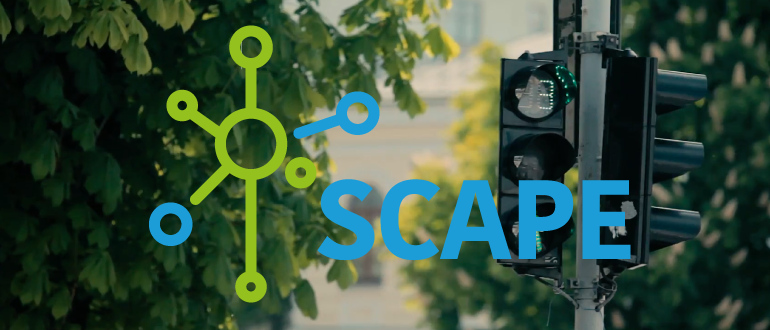
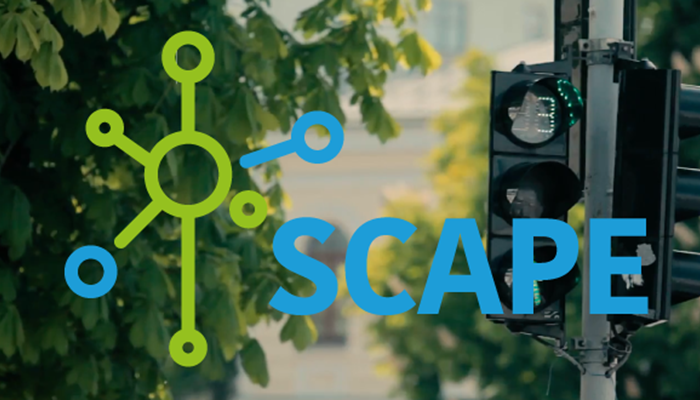
Update EU Projects

diff --git a/_includes/nav.html b/_includes/nav.html
@@ -61,7 +61,7 @@
           </li>
 
           <li class="nav-item {% if page.url == '/contact.html' %}active{% endif %}"><a class="nav-link" href="{{site.baseurl}}/contact.html">Contact</a></li>
-          <li class="nav-item"><a class="nav-link" href="https://github.com/fablabbcn/fablabbcn-web/blob/master/{{page.path}}">Help us fix this page!</a></li>
+          <li class="nav-item"><a class="nav-link" href=git>Help us fix this page!</a></li>
         </ul><!-- nav navbar-nav navbar-right -->
       </div><!-- navbar-collapse collapse -->
 

diff --git a/_posts/projects/0000-03-01-siscode.md b/_posts/projects/0000-03-01-siscode.md
@@ -1,0 +1,46 @@
+---
+layout: project_post
+type: project
+subtype: eufeatured
+projectimg: eu_projects/siscode-new.png
+squareimg: eu_projects/siscode-thumb.png
+url: 
+niceurl: 
+title: SISCODE
+meta: Different policies and programmes have been developed across Europe, over the last decade, to increase the permeability between science, innovation and society to render the former two better oriented towards the needs, demands and expectations of the latter. The overarching aim of SISCODE is to better understand co-creation as a bottom-up and design-driven phenomenon that is flourishing in Europe (in fab labs, living labs, social innovations, smart cities, communities and regions), to analyse favourable conditions that support its scalability and replication and to use this knowledge to cross-fertilise RRI practices and policies. 
+ribbon: Eu Research
+date: 0000-02-09
+---
+
+<img src="{{site.baseurl}}{{ site.url }}/img/projects/eu_projects/siscode1.png">
+
+This aim is articulated along three main operational objectives:
+
+1. To create and run a European-wide study of existing local, regional, national and European co-creation ecosystems and to describe effective dynamics and outcomes for the implementable integration of society in science and innovation. The study will analyse and compare the following: the different cultural, organisational, institutional and regulatory conditions under which co-creation flourishes; the diversities among actors and stakeholders involved (gender, culture, education and backgrounds) that favour co-creation; the typologies of challenges and the citizens they affect (including vulnerable groups, women, children, migrants etc.); and the characteristics of the co-produced solutions;
+
+2. To experiment with design as a new system of competences on which to build capacity for implementable co-creation in RRI and STI policy making;
+
+3. To understand the cultural, organisational and procedural transformations needed to embed co-creation as a design-driven approach in RRI processes and STI policy making, overcoming barriers and resistance to change.
+
+<img src="{{site.baseurl}}{{ site.url }}/img/projects/eu_projects/siscode2.png">
+
+## Partners
+
+* Politecnico di Milano (Coordinator) (IT)
+* APRE – Agenzia per la Promozione della Ricerca Europea (IT)
+* Technical University of Dortmund (DE)
+* Ecsite – Association Européenne des Expositions Scientifiques Techniques et Industrielles Ecsite (BE)
+* Stichting Museum Voor Industrie en Samenleving Continium (NL)
+* SPI – Sociedade Portuguesa de Inovação – Consultadoria Empresarial e Fomento da Inovação S.A. (PT)
+* IAAC -Institut d’Arquitectura Avancada de Catalunya (Fab City Research Lab) (ES)
+* Ciencia Viva – Agencia Nacional Para a Cultura Cientifica e Tecnologica (PT)
+* TRACES – Théories et Réflexions sur L’Apprendre la Communication et l’Éducation Scientifiques (FR)
+* AUTH – University of Thessaloniki AUTH (GR)
+* UCL – University College London (UK)
+* Biosense Institute – Research and Development Institute for Information Technologies in Biosystems (RS)
+* Trinity College Dublin (IR)
+* Krakow Technology Park (PL)
+* DDC – Danish Design Centre (DK)
+* Makea Industries GMBH (Fab Lab Berlin) (DE) 
+* Foreningen Maker (Uderbroen Fab Lab) (DK)
+* ENoLL – European Network of Living Labs (BE)

diff --git a/_posts/projects/0000-03-01-romi.md b/_posts/projects/0000-03-01-romi.md
@@ -1,0 +1,34 @@
+---
+layout: project_post
+type: project
+subtype: eufeatured
+projectimg: eu_projects/romi-new.png
+squareimg: eu_projects/romi-thumb.png
+url: https://romi-project.eu/
+niceurl: romi-project.eu
+title: Romi Robotics for Microfarms
+meta: The overarching goal of ROMI is to develop an open and lightweight robotics platform for microfarms (densely-planted, intermixed polycultures), especially for weed reduction and crop monitoring.
+ribbon: Eu Research
+date: 0000-02-09
+---
+
+<img src="{{site.baseurl}}{{ site.url }}/img/projects/eu_projects/romi-1.jpg">
+
+The Institute for Advanced Architecture of Catalonia coordinates the EU project Robotics for Microfarms (ROMI) under the framework H2020. IAAC is part of a consortium formed by a team of interdisciplinary experts in computer science (Inria, Sony), robotics and electronics (UBER, Sony, IAAC), plant modelling and agronomy (CNRS, Inria), as well as microfarming (Châtelain) which will be in charge of developing ROMI initiative, an open a lightweight robotics platform for small farming land areas.
+
+<img src="{{site.baseurl}}{{ site.url }}/img/projects/eu_projects/romi-2.jpg">
+
+By implementing robotics in farmlands, ROMI will assist in weed reduction and crop monitoring and it also will help in reducing manual labour, saving farmers 25% of their time. The technology applied in this project will acquire detailed information on sample plants and will be coupled with a drone, developed by Noumena, that acquires more global information at crop level.
+
+<img src="{{site.baseurl}}{{ site.url }}/img/projects/eu_projects/romi-3.jpg">
+
+Robotics for Microfarms will produce an integrated, multi-scale picture of the crop development that will help the farmer monitor the crops to increase efficient harvesting. This project aims to adapt and extend state-of-the-art land-based and air-borne monitoring tools to handle small fields with complex layouts and mixed crops. IAAC in collaboration with an international consortium will develop and bring to the market and affordable, multi-purpose, land-based robot, integrated 3D plant analysis in the robot for detailed plant monitoring, an aerial NERO drone for multi-scale crop monitoring and test the effectiveness of this solution in real-world field conditions.
+
+## Partners
+
+* Sony Europe Limited – Sony (UK)
+* France Europe Innovation – FEI (FR)
+* Institut National de Recherche en Informatique et Automatique – INRIA (FR)
+* Centre National de la Recherche Scientifique – CNRS (FR)
+* Humboldt – Universitaet zu Berlin (DE)
+* SCEA Pepinieres Chatelain (FR)

diff --git a/_posts/projects/0000-03-01-dsiscale.md b/_posts/projects/0000-03-01-dsiscale.md
@@ -1,0 +1,27 @@
+---
+layout: project_post
+type: project
+subtype: eufeatured
+projectimg: eu_projects/dsiscale-new.jpg
+squareimg: eu_projects/dsiscale-thumb.jpg
+url: 
+niceurl: 
+title: DSISCALE 
+meta: Different policies and programmes have been developed across Europe, over the last decade, to increase the permeability between science, innovation and society to render the former two better oriented towards the needs, demands and expectations of the latter. The overarching aim of SISCODE is to better understand co-creation as a bottom-up and design-driven phenomenon that is flourishing in Europe (in fab labs, living labs, social innovations, smart cities, communities and regions), to analyse favourable conditions that support its scalability and replication and to use this knowledge to cross-fertilise RRI practices and policies. 
+ribbon: Eu Research
+date: 0000-02-09
+---
+The DSISCALE project aims to support policymakers, funders and, most importantly, practitioners to scale digital social innovation (DSI) and collective awareness platforms (CAPs) in Europe and to make the most of the opportunities in using tools such as open data open hardware to address some of Europe’s biggest social challenges. Building on existing support initiatives such as www.digitalsocial.eu, it will do this by developing Europe wide innovation clusters focusing on collaboration and peer learning between funders, policymakers and practitioners on methods for scaling DSI, developing the DSI index for measuring the macro level system conditions for DSI and a series of ‘DSI futures’ which will explore future scenarios for DSI in Europe and map the emerging digital technologies that are enabling new forms of digital social innovation.
+
+Specifically, DSISCALE will create and facilitate an online community hub for DSI in Europe by continuing the work of www.digitalsocial.eu and develop an index for measuring capacity for DSI.  These key DSISCALE objectives will be achieved by bringing together resources and knowledge across different fields, technologies and disciplines, including ICT and social sciences, digital democracy the maker movement and innovation policy from across the national and European networks.
+
+<img src="{{site.baseurl}}{{ site.url }}/img/projects/eu_projects/dsiscale-1.png">
+
+## Partners
+
+* NESTA (UK)
+* Gut.org (DE)
+* Stichting Waag Society (NL)
+* WeMake (IT)
+* Barcelona Activa (ES)
+* Fundacja ePaństwo (PL)

diff --git a/_posts/projects/0000-03-01-ddmp.md b/_posts/projects/0000-03-01-ddmp.md
@@ -1,0 +1,35 @@
+---
+layout: project_post
+type: project
+subtype: eufeatured
+projectimg: eu_projects/ddmp-new.png
+squareimg: eu_projects/ddmp-thumb.png
+url: http://distributeddesign.eu/
+niceurl: distributeddesign.eu
+title: Distributed Design Market Platform
+meta: The platform aims to further develop Fablabs.io Network by promoting and improving the connection of makers and designers with the European market.
+ribbon: Eu Research
+date: 0000-02-09
+---
+The Distributed Design Market Platform acts as an exchange and networking hub for the European Maker Movement. The initiative aims at developing and promoting the connection between designers, makers and the market.
+
+The Distributed Design Market Platform is a four-year project funded by the European Union through the Creative Europe fund. It acts as an exchange and networking hub for the European Maker Movement. It consists of both online and offline activities such as events, resources, workshops, fairs and bootcamps that promote and advocate for emerging creative talent in Europe and their business productivity and sustainability. With events across Europe the Platform also supports the mobility of emerging creatives and their work.
+
+Distributed Design is one outcome of the intersection of two global trends: the Maker Movement and the digitisation of the design discipline. This convergence has lead to the rise of a new market, in which creative individuals have access to digital tools that allow them to design, produce and fabricate products themselves or easily connect to a global network of collaborators to undertake aspects of this process with them. We call this process and the subsequent market which is emerging from these trends, Distributed Design.
+
+<img src="{{site.baseurl}}{{ site.url }}/img/projects/eu_projects/ddmp-1.jpg">
+
+## Partners
+
+* Fab City Grand Paris (FR)
+* Pakhuis de Zwijger (NL)
+* HappyLab (AT)
+* Polifactory – Politecnico di Milano (IT)
+* Machines Room (UK)
+* P2P Lab (EL)
+* Republica (DE)
+* Dansk Design Center (DK)
+* Fab lab Berlin (DE)
+* Fab Lab Budapest (HU)
+* Innovation Center Iceland (IS)
+* Foreningen Maker (DK)

diff --git a/_posts/projects/0000-03-01-doit.md b/_posts/projects/0000-03-01-doit.md
@@ -1,0 +1,36 @@
+---
+layout: project_post
+type: project
+subtype: eufeatured
+projectimg: eu_projects/doit-new.png
+squareimg: eu_projects/doit-thumb.png
+url: https://www.doit-europe.net/
+niceurl: doit-europe.net
+title: DO-IT 
+meta: DO-IT is the European Initiative to empower Europe’s young innovators in an open digital world with the skills and tools they need from early on in life. The project empowers primary and secondary school pupils (6-16 years) alongside educators to apply open innovation methods, digital maker tools and collaboration skills to tackle societal problems.
+ribbon: Eu Research
+date: 0000-02-09
+---
+
+The DO-IT initiative builds on innovative open educational approaches that favour concrete making, application and experiences. The programme is piloted and evaluated across 10 European countries, in schools, innovation labs, maker spaces and social enterprises. It offers intergenerational workshops and training events targeted at different learning needs and settings. DO-IT’s online Idea Competition, open to all children in Europe, will inspire them to pursue an entrepreneurial career path.
+
+<img src="{{site.baseurl}}{{ site.url }}/img/projects/eu_projects/doit-new.png">
+
+<img src="{{site.baseurl}}{{ site.url }}/img/projects/eu_projects/doit-1.jpg">
+
+<img src="{{site.baseurl}}{{ site.url }}/img/projects/eu_projects/doit-2.jpg">
+
+## Partners
+
+* Waag Society (NL)
+* Salzburg Research Forschungsgesellschaft (AT)
+* Lappeenranta University of Technology (FI)
+* Zentrum für Soziale Innovation (AT)
+* Mediale Pfade – Verein für Medienbildung (DE)
+* eduCentrum (BE)
+* ZAVOD Kersnikova (SI)
+* Polyhedra (RS)
+* Capital of Children (LEGO Foundation, DK)
+* University of Zagreb (HR)
+* European Social Entrepreneurship and Innovative Studies Institute (LT)
+* YouthProAktiv (BE)

diff --git a/_posts/projects/0000-02-02-making-sense.md b/_posts/projects/0000-02-02-making-sense.md
@@ -2,7 +2,7 @@
 layout: project_post
 type: project
 subtype: eufeatured
-projectimg: eu_projects/ms-img-1.jpg
+projectimg: eu_projects/making-sense-new.png
 squareimg: eu_projects/ms-thumnail.jpg
 url: http://making-sense.eu/
 niceurl: making-sense.eu

diff --git a/_posts/projects/0000-02-02-organicity.md b/_posts/projects/0000-02-02-organicity.md
@@ -2,7 +2,7 @@
 layout: project_post
 type: project
 subtype: eufeatured
-projectimg: eu_projects/oc-img.jpg
+projectimg: eu_projects/organicity-new.jpg
 squareimg: eu_projects/oc-thumnail.jpg
 url: http://organicity.eu/
 niceurl: organicity.eu

diff --git a/_posts/projects/0000-02-02-makeit.md b/_posts/projects/0000-02-02-makeit.md
@@ -2,7 +2,7 @@
 layout: project_post
 type: project
 subtype: eu
-projectimg: eu_projects/makeit-img-1.jpg
+projectimg: eu_projects/makeit-new.png
 squareimg: eu_projects/makeit-thumbnail.jpg
 url: http://make-it.io/
 niceurl: make-it.io
